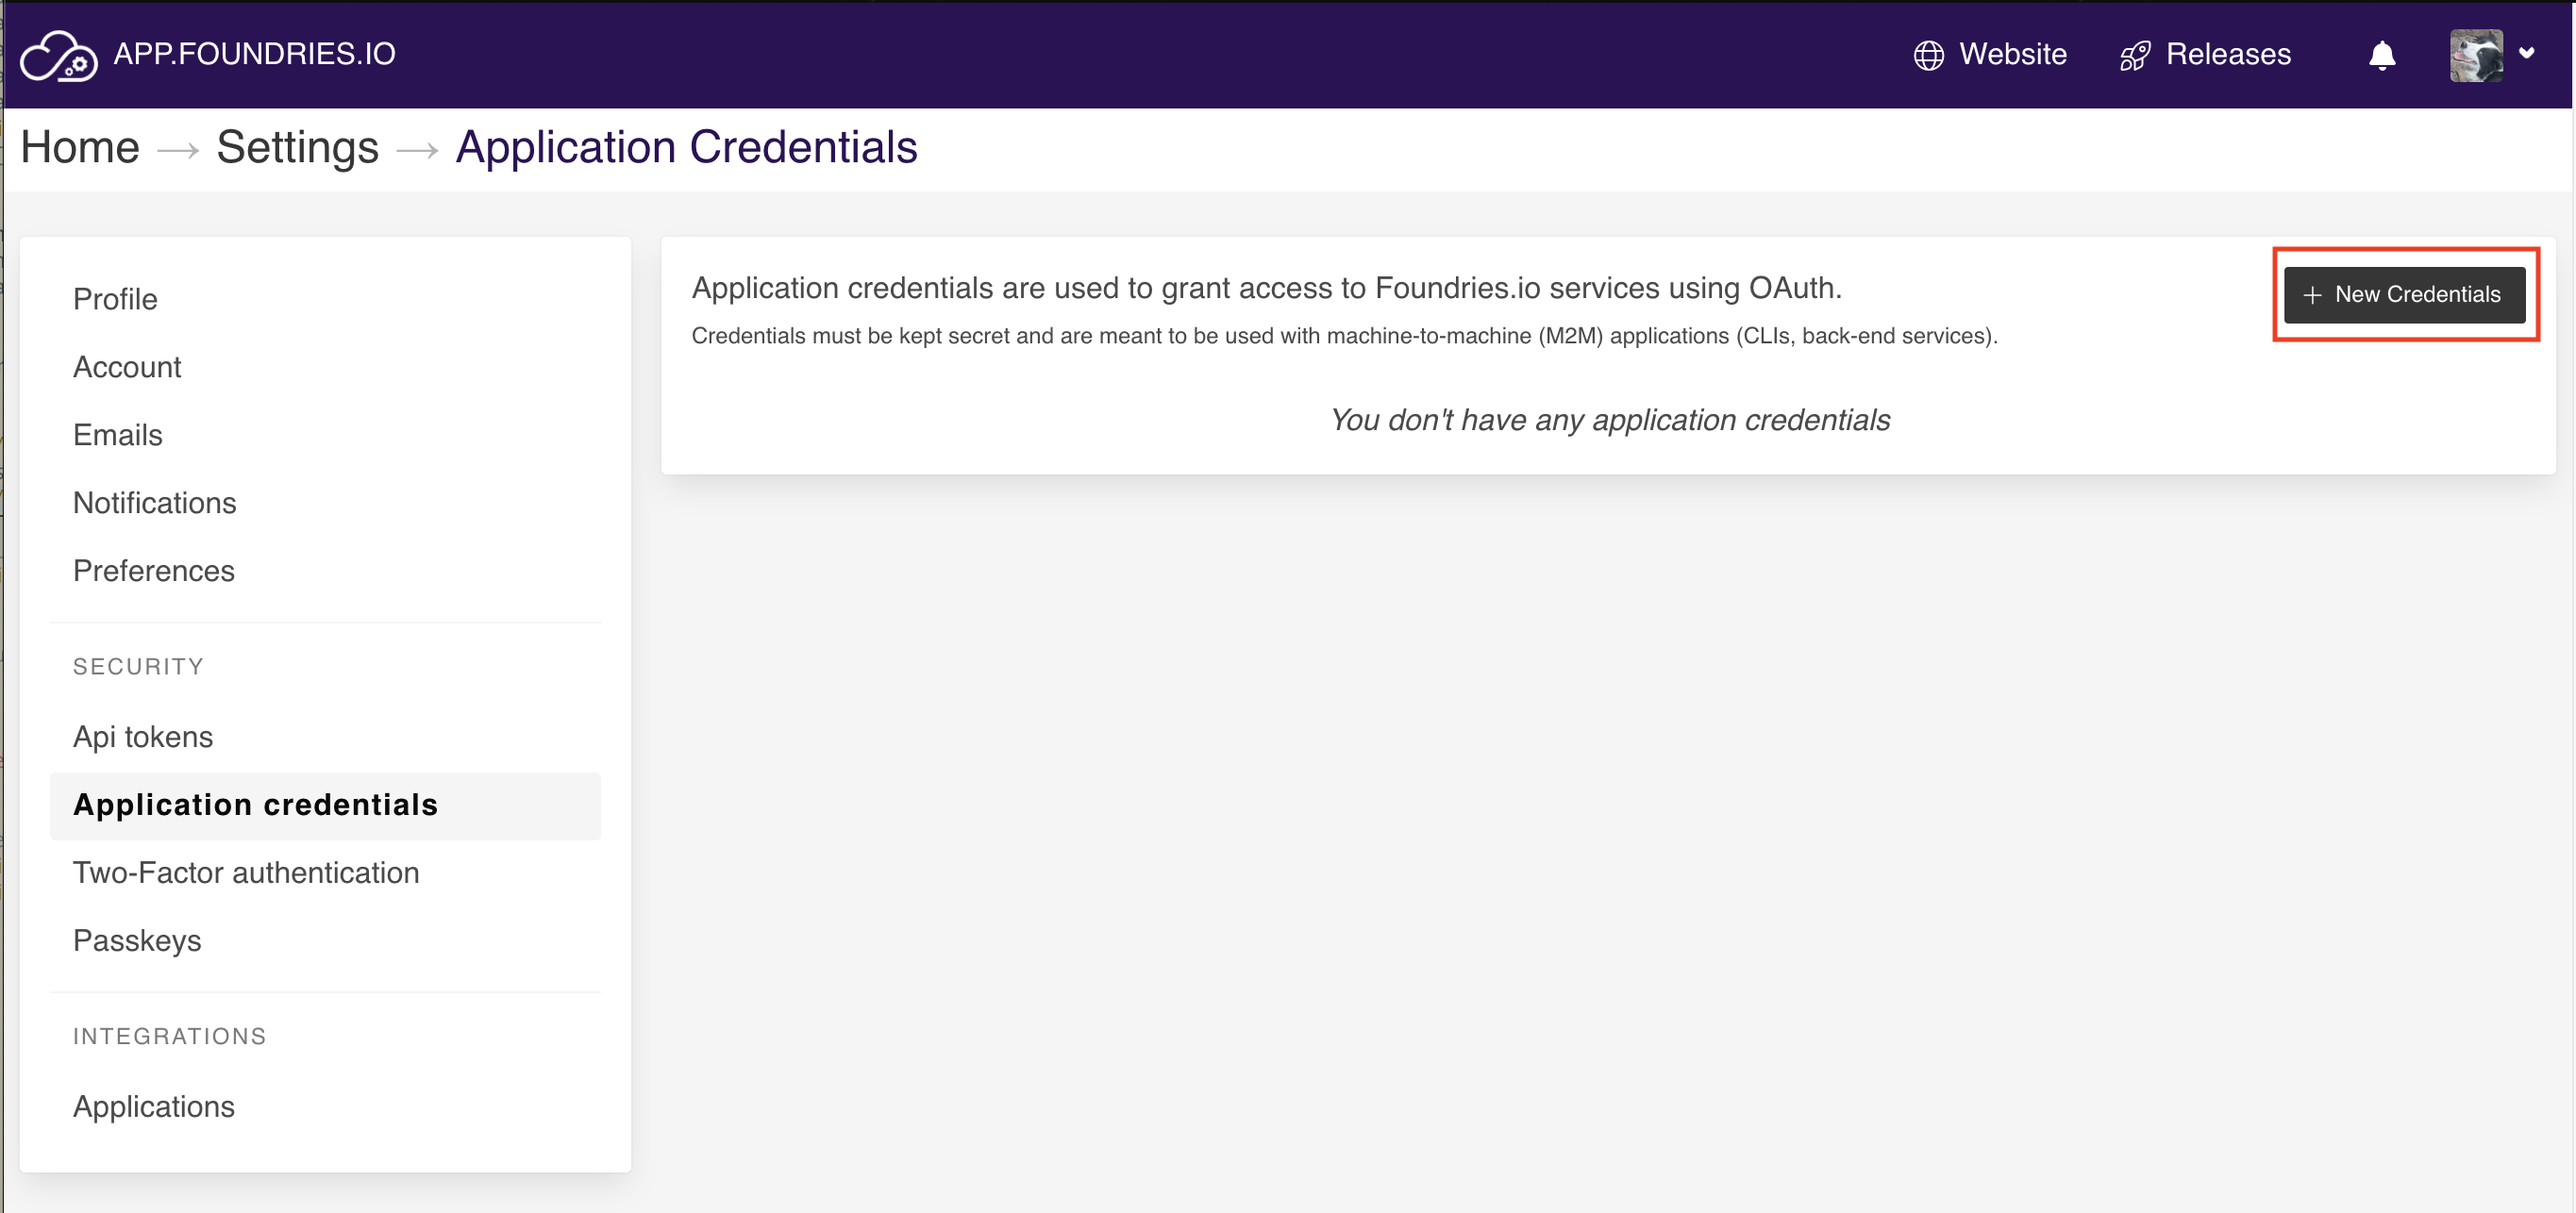
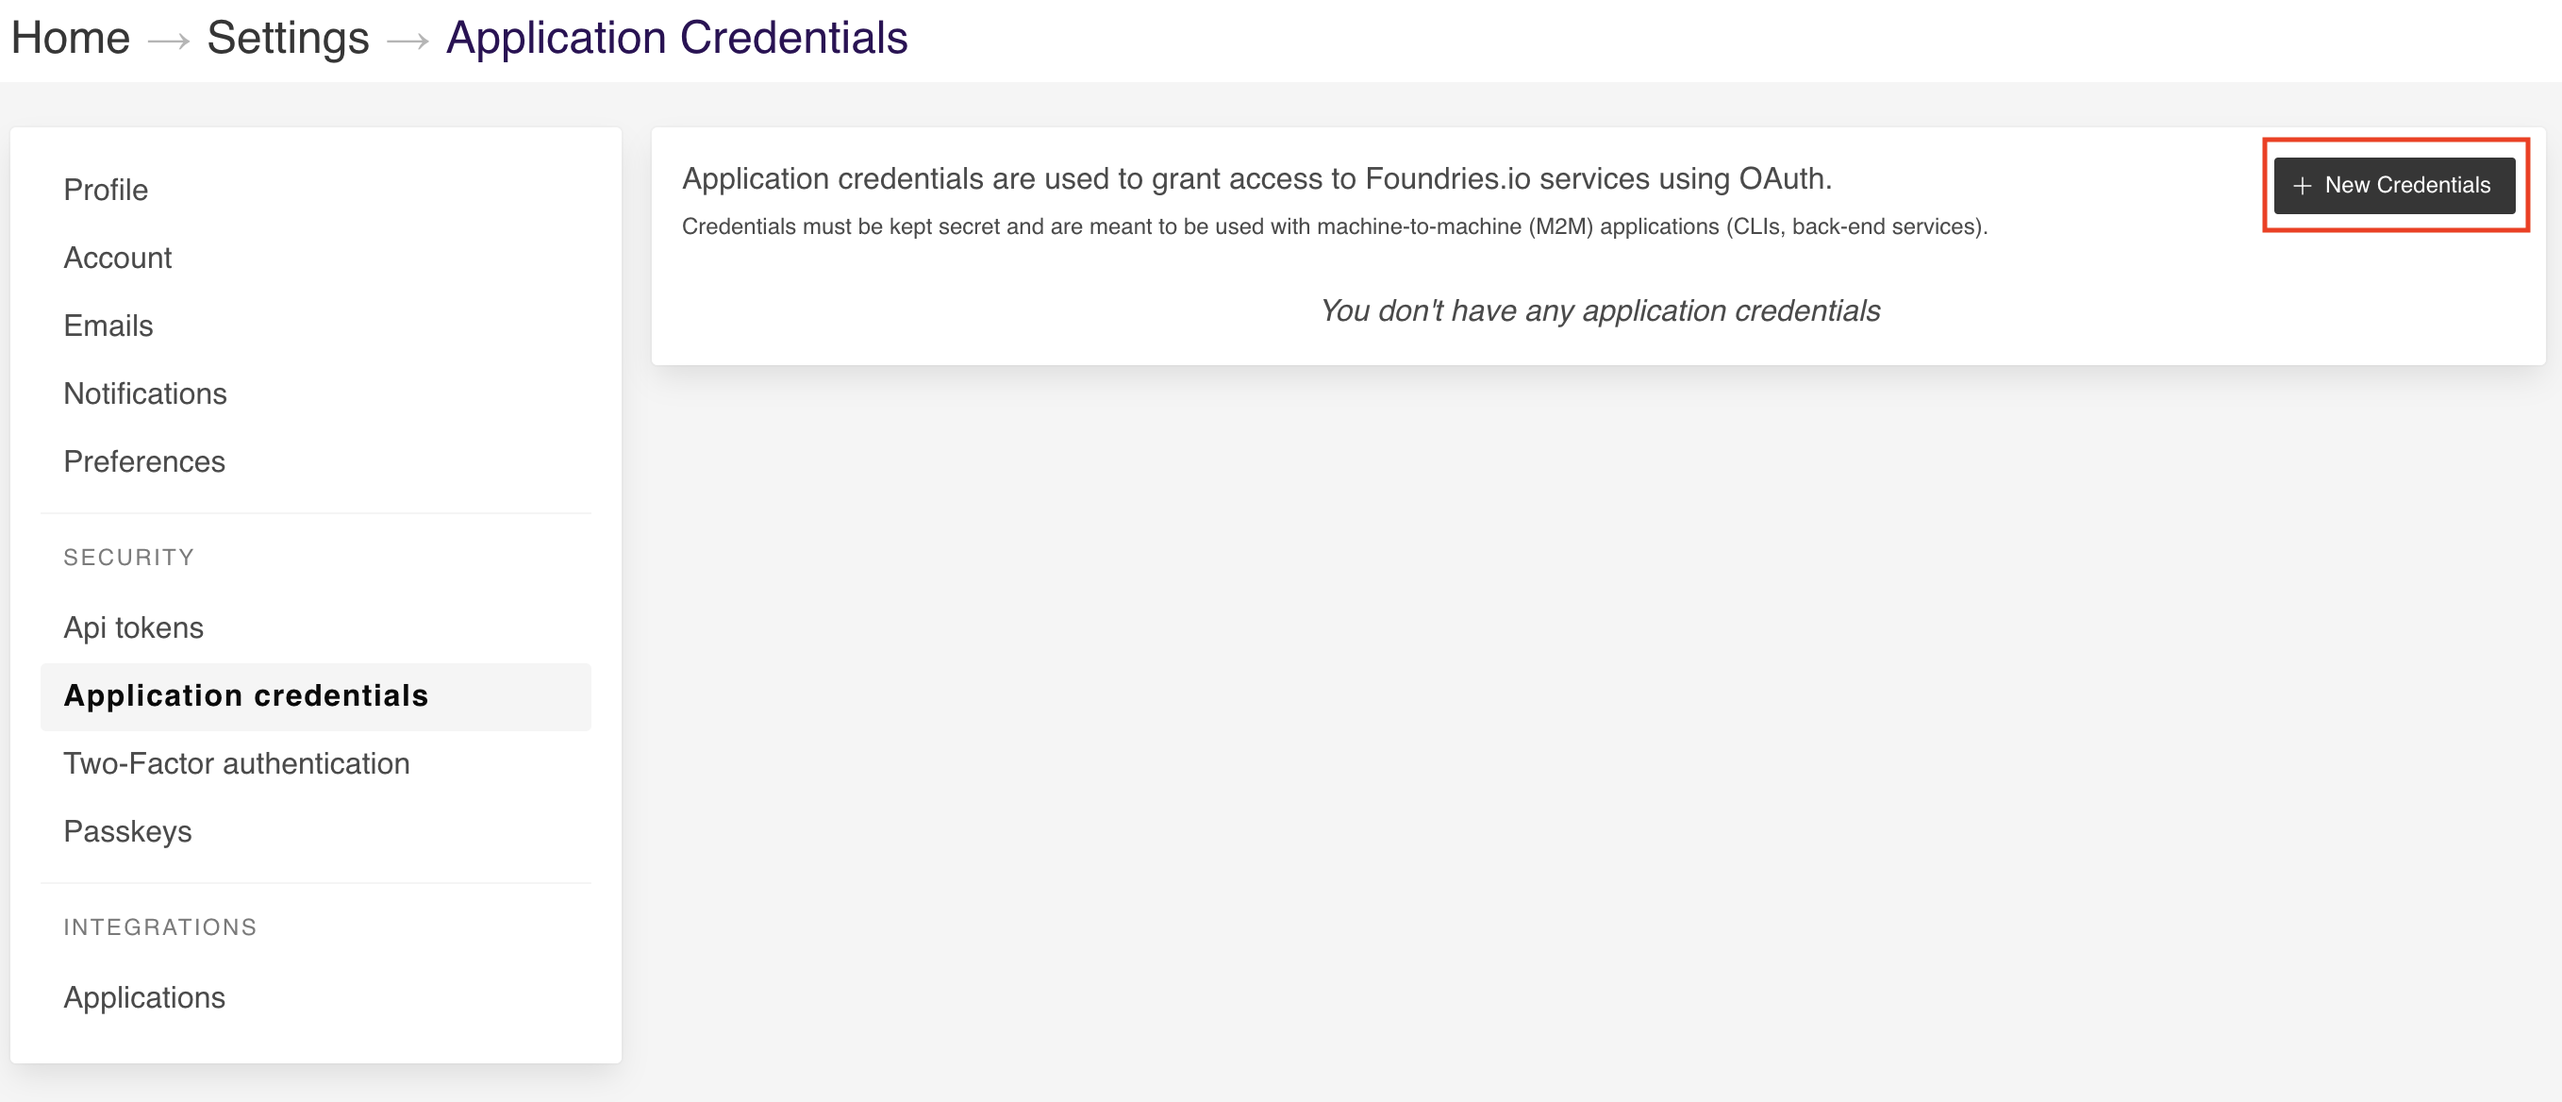
Update screenshots
For most screenshots, images were edited to remove logo. This was done
so as to save time and effort, while also focusing the content.

Minor fixes of issues that presented themselves while working on this
commit also fixed: Added .DS_Store to `.gitignore`, added missing comma
for register-device page, and simplified info on machine selection on
signup page.

QA: checked rendered output in browser.

This commit addresses issue FFTK-3878, "Update screenshots with
rebranding"

diff --git a/source/getting-started/register-device/index.rst b/source/getting-started/register-device/index.rst
@@ -43,7 +43,7 @@ Your Linux® microPlatform (LmP) image includes the ``lmp-device-register`` tool
 
 .. note::
 
-    After registration devices will run **all** applications that are available in the latest Target.
+    After registration, devices will run **all** applications that are available in the latest Target.
     This default behavior can be changed by enabling only specific applications.
     Read :ref:`ug-fioctl-enable-apps` to learn how.
 

diff --git a/source/getting-started/signup/index.rst b/source/getting-started/signup/index.rst
@@ -47,7 +47,6 @@ Click :guilabel:`Create Factory` once your details are entered.
 
 The :ref:`ref-linux` supports a wide range of platforms out of the box.
 This includes QEMU_ images.
-To run an x86-64 image, select **Generic x86-64**, which works for ``intel-core-i7-64`` and can be used by QEMU.
 
 .. figure:: /_static/signup/create.png
    :width: 450
